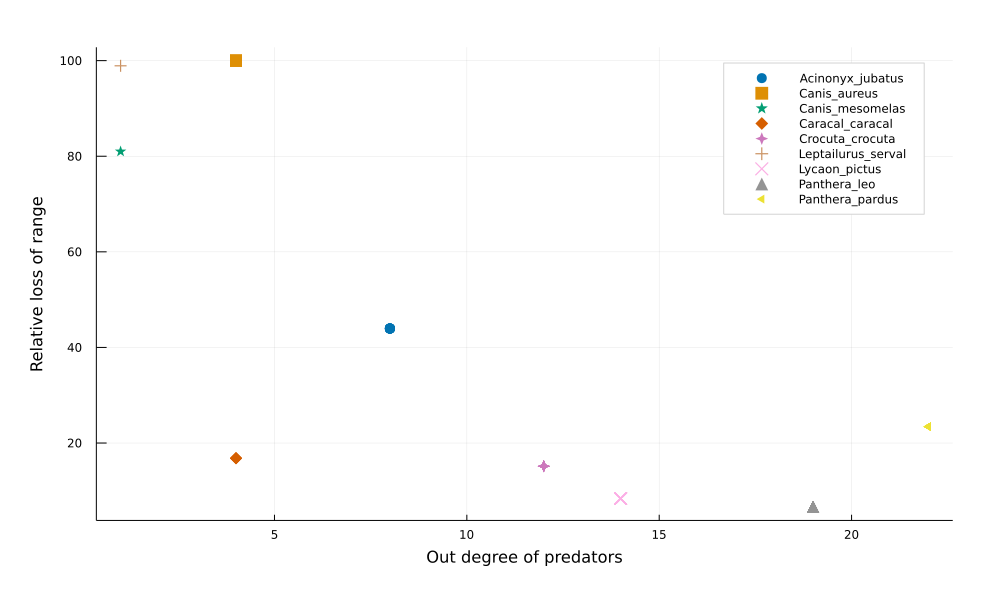
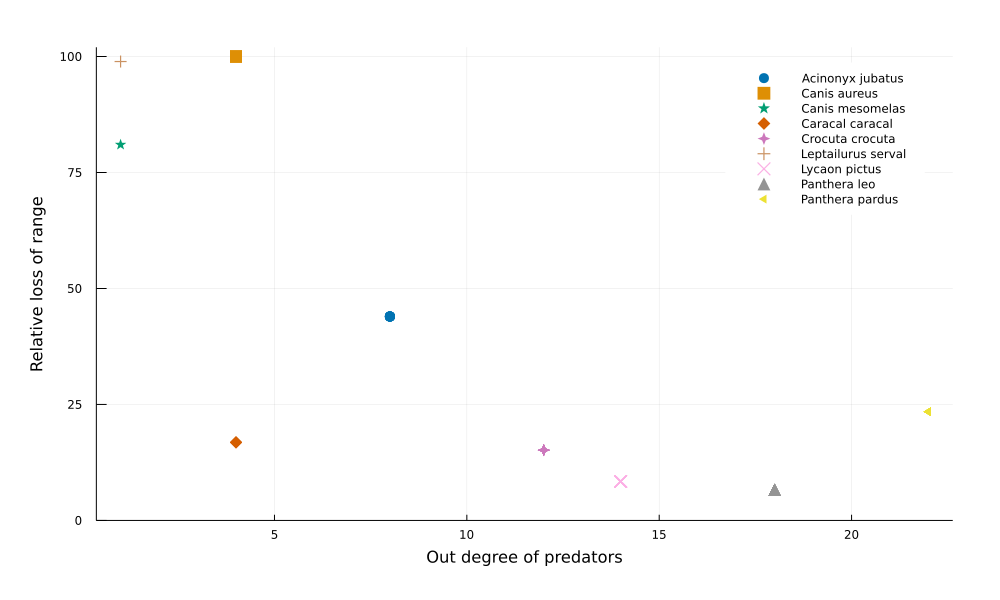
:sparkles: update out-degree figure

diff --git a/manuscript.md b/manuscript.md
@@ -90,8 +90,7 @@ For each species in the dataset we collated point observation data from the Glob
 
 # Results
 
-![Fig 01 - More specialized predators lose a higher proportion of their ranges. Both *Leptailurus serval* and *Canis mesomelas* have only one prey in the Serengeti foodweb, each of them with a very small range compared to those of their predators. The discrepancy between range sizes promotes significant range loss. ](figures/rel_loss-in_degree-species.png)
-<!--->update with results without self-interaction<--->
+![Fig 01 - More specialized predators lose a higher proportion of their ranges. Both *Leptailurus serval* and *Canis mesomelas* have only one prey in the Serengeti foodweb, each of them with a very small range compared to those of their predators. The discrepancy between range sizes promotes significant range loss. ](figures/rel_loss-outdegree-species.png){#fig:outdegree}
 
 Fig 02 - probably the species richness before and after?
 
